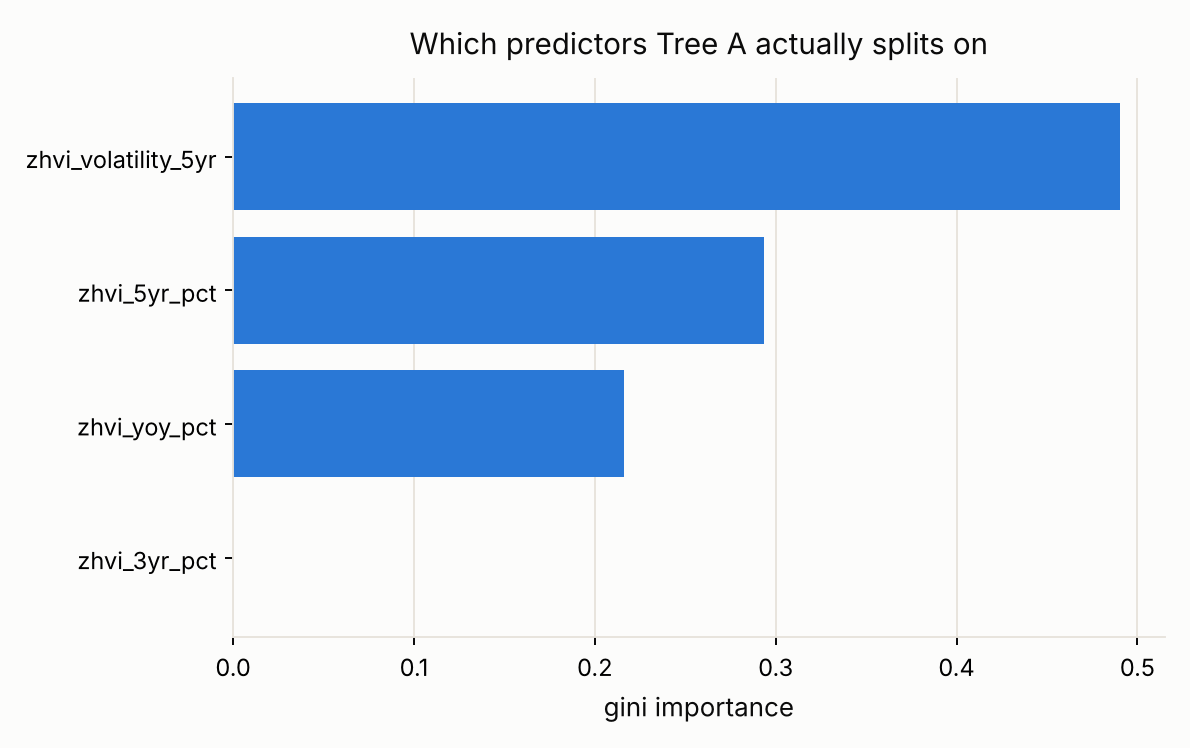
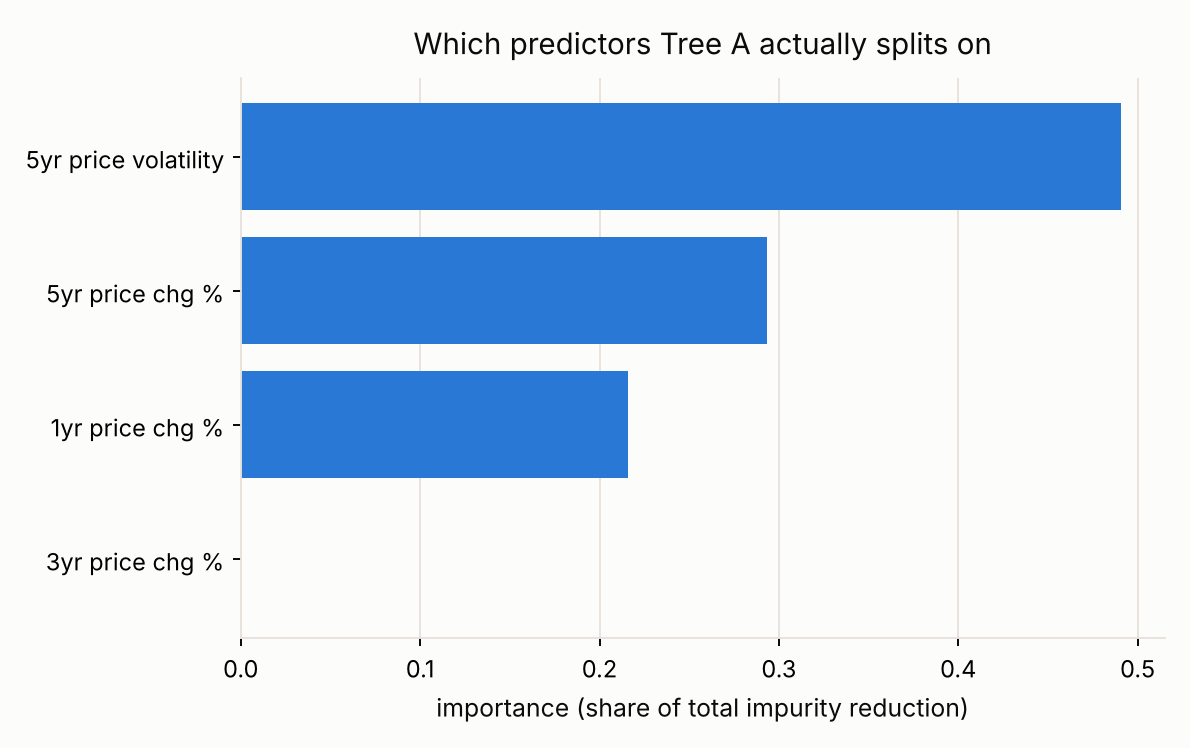
Simplify Decision Trees diagrams for readability
Tree diagrams were cluttered and hard to read: raw column names
(zhvi_volatility_5yr) and a gini/entropy number in every box. Switched to
plain-language feature labels, dropped the per-node impurity number (the
worked example table already shows that calculation once, concretely, for
the real root split), and trimmed the unpruned tree's preview to 2 levels
instead of 3 for a cleaner "..." cutoff. Updated the reading-guide note and
feature-importance chart to match.

Claude-Session: https://claude.ai/code/session_011VdLBjRcMVqV27L5NQUpBP

diff --git a/docs/decision-trees.html b/docs/decision-trees.html
@@ -190,8 +190,11 @@
 
     <p><em>Reading the trees below: each box is a node. The top line is the yes/no question (a predictor
     compared to a threshold); &ldquo;class = &hellip;&rdquo; on the last line is which affordability class
-    that node would predict if a metro landed there. Following the arrows down from the root to any box
-    shows the chain of questions that led to that prediction.</em></p>
+    that node would predict if a metro landed there, and &ldquo;samples&rdquo; is how many training metros
+    reached that node. Following the arrows down from the root to any box shows the chain of questions that
+    led to that prediction. The gini or entropy number each split actually used to choose that question is
+    left out of these boxes to keep them readable; the worked example above shows exactly how that number is
+    calculated for the real root split.</em></p>
 
     <figure class="wide">
       <img src="images/dt-tree-gini.png" alt="Tree A: gini criterion, max depth 3">
@@ -204,8 +207,8 @@
     </figure>
 
     <figure class="wide">
-      <img src="images/dt-tree-unpruned-top.png" alt="Tree C: gini criterion, unpruned, top 3 levels shown">
-      <figcaption><b>Figure.</b> Tree C, grown without a depth limit, reaches 22 levels and 243 leaves; only the top 3 levels are shown here since the full tree is far too large to read. Despite fitting the training data far more closely, it scores lower on the test set than the two shallow trees.</figcaption>
+      <img src="images/dt-tree-unpruned-top.png" alt="Tree C: gini criterion, unpruned, top 2 levels shown">
+      <figcaption><b>Figure.</b> Tree C, grown without a depth limit, reaches 22 levels and 243 leaves; only the top 2 levels are shown here since the full tree is far too large to read. Despite fitting the training data far more closely, it scores lower on the test set than the two shallow trees.</figcaption>
     </figure>
 
     <figure>

diff --git a/run_decision_trees.py b/run_decision_trees.py
@@ -44,6 +44,13 @@ GRID = "#e7e3dc"
 PREDICTORS = [
     "zhvi_yoy_pct", "zhvi_3yr_pct", "zhvi_5yr_pct", "zhvi_volatility_5yr",
 ]
+FRIENDLY_NAMES = {
+    "zhvi_yoy_pct": "1yr price chg %",
+    "zhvi_3yr_pct": "3yr price chg %",
+    "zhvi_5yr_pct": "5yr price chg %",
+    "zhvi_volatility_5yr": "5yr price volatility",
+}
+FRIENDLY_LABELS = [FRIENDLY_NAMES[p] for p in PREDICTORS]
 CLASSES = ["Affordable", "Moderate", "Burdened"]
 
 train = pd.read_csv(f"{OUT_DIR}/metro_2025_supervised_train.csv")
@@ -97,37 +104,47 @@ results = pd.DataFrame(rows, columns=["tree", "test_accuracy", "depth", "n_leave
 results.to_csv(f"{OUT_DIR}/dt-results-table.csv", index=False)
 
 # ---------------------------------------------------------------- tree diagrams (A and B, depth-3, fully readable)
+# Readability pass: friendly feature names instead of raw column names, and
+# impurity=False to drop the gini/entropy number from every box. That number
+# is already worked through once, by hand, in the table above (the actual
+# root split's gini and entropy, before and after); repeating it in all 15
+# boxes of every tree added clutter without adding information for a reader
+# who isn't going to re-derive the splits themselves.
+display_title = {
+    "Tree A (gini, depth=3)": "Tree A — split using gini impurity, max depth 3",
+    "Tree B (entropy, depth=3)": "Tree B — split using entropy, max depth 3",
+}
 for name, fname in [("Tree A (gini, depth=3)", "dt-tree-gini.png"), ("Tree B (entropy, depth=3)", "dt-tree-entropy.png")]:
     clf = trees[name]
-    fig, ax = plt.subplots(figsize=(15, 8), dpi=150)
+    fig, ax = plt.subplots(figsize=(16, 7.5), dpi=160)
     fig.patch.set_facecolor(SURFACE)
-    plot_tree(clf, feature_names=PREDICTORS, class_names=CLASSES, filled=True, rounded=True,
-               fontsize=8, ax=ax, proportion=False)
-    ax.set_title(name, fontsize=14, color=INK, pad=10)
+    plot_tree(clf, feature_names=FRIENDLY_LABELS, class_names=CLASSES, filled=True, rounded=True,
+               impurity=False, fontsize=11, ax=ax, proportion=False)
+    ax.set_title(display_title[name], fontsize=15, color=INK, pad=14)
     fig.tight_layout()
     fig.savefig(f"{IMG_DIR}/{fname}", facecolor=SURFACE)
     plt.close(fig)
 
-# unpruned tree is too large to render legibly in full; show just the top 3 levels for comparison
+# unpruned tree is too large to render legibly in full; show just the top 2 levels for comparison
 clf_c = trees["Tree C (gini, unpruned)"]
-fig, ax = plt.subplots(figsize=(15, 8), dpi=150)
+fig, ax = plt.subplots(figsize=(13, 6), dpi=160)
 fig.patch.set_facecolor(SURFACE)
-plot_tree(clf_c, feature_names=PREDICTORS, class_names=CLASSES, filled=True, rounded=True,
-           fontsize=8, ax=ax, max_depth=3)
-ax.set_title(f"Tree C (gini, unpruned) — top 3 levels shown of {clf_c.get_depth()} actual depth, {clf_c.get_n_leaves()} leaves",
-             fontsize=13, color=INK, pad=10)
+plot_tree(clf_c, feature_names=FRIENDLY_LABELS, class_names=CLASSES, filled=True, rounded=True,
+           impurity=False, fontsize=11, ax=ax, max_depth=2)
+ax.set_title(f"Tree C — unpruned, top 2 levels shown of {clf_c.get_depth()} actual levels and {clf_c.get_n_leaves()} leaves",
+             fontsize=14, color=INK, pad=14)
 fig.tight_layout()
 fig.savefig(f"{IMG_DIR}/dt-tree-unpruned-top.png", facecolor=SURFACE)
 plt.close(fig)
 
 # ---------------------------------------------------------------- feature importance (Tree A)
 clf_a = trees["Tree A (gini, depth=3)"]
-imp = pd.Series(clf_a.feature_importances_, index=PREDICTORS).sort_values(ascending=True)
+imp = pd.Series(clf_a.feature_importances_, index=FRIENDLY_LABELS).sort_values(ascending=True)
 fig, ax = plt.subplots(figsize=(7, 4.4), dpi=170)
 fig.patch.set_facecolor(SURFACE)
 ax.set_facecolor(SURFACE)
 ax.barh(imp.index, imp.values, color=BLUE, zorder=2)
-ax.set_xlabel("gini importance", fontsize=11, color=INK)
+ax.set_xlabel("importance (share of total impurity reduction)", fontsize=10.5, color=INK)
 ax.set_title("Which predictors Tree A actually splits on", fontsize=12.5, color=INK, pad=10)
 ax.grid(axis="x", color=GRID, linewidth=0.8, zorder=0)
 for spine in ("top", "right"):

diff --git a/docs/_build_pages.py b/docs/_build_pages.py
@@ -691,8 +691,11 @@ DECISION_TREES_BODY = """
 
     <p><em>Reading the trees below: each box is a node. The top line is the yes/no question (a predictor
     compared to a threshold); &ldquo;class = &hellip;&rdquo; on the last line is which affordability class
-    that node would predict if a metro landed there. Following the arrows down from the root to any box
-    shows the chain of questions that led to that prediction.</em></p>
+    that node would predict if a metro landed there, and &ldquo;samples&rdquo; is how many training metros
+    reached that node. Following the arrows down from the root to any box shows the chain of questions that
+    led to that prediction. The gini or entropy number each split actually used to choose that question is
+    left out of these boxes to keep them readable; the worked example above shows exactly how that number is
+    calculated for the real root split.</em></p>
 
     <figure class="wide">
       <img src="images/dt-tree-gini.png" alt="Tree A: gini criterion, max depth 3">
@@ -705,8 +708,8 @@ DECISION_TREES_BODY = """
     </figure>
 
     <figure class="wide">
-      <img src="images/dt-tree-unpruned-top.png" alt="Tree C: gini criterion, unpruned, top 3 levels shown">
-      <figcaption><b>Figure.</b> Tree C, grown without a depth limit, reaches 22 levels and 243 leaves; only the top 3 levels are shown here since the full tree is far too large to read. Despite fitting the training data far more closely, it scores lower on the test set than the two shallow trees.</figcaption>
+      <img src="images/dt-tree-unpruned-top.png" alt="Tree C: gini criterion, unpruned, top 2 levels shown">
+      <figcaption><b>Figure.</b> Tree C, grown without a depth limit, reaches 22 levels and 243 leaves; only the top 2 levels are shown here since the full tree is far too large to read. Despite fitting the training data far more closely, it scores lower on the test set than the two shallow trees.</figcaption>
     </figure>
 
     <figure>
